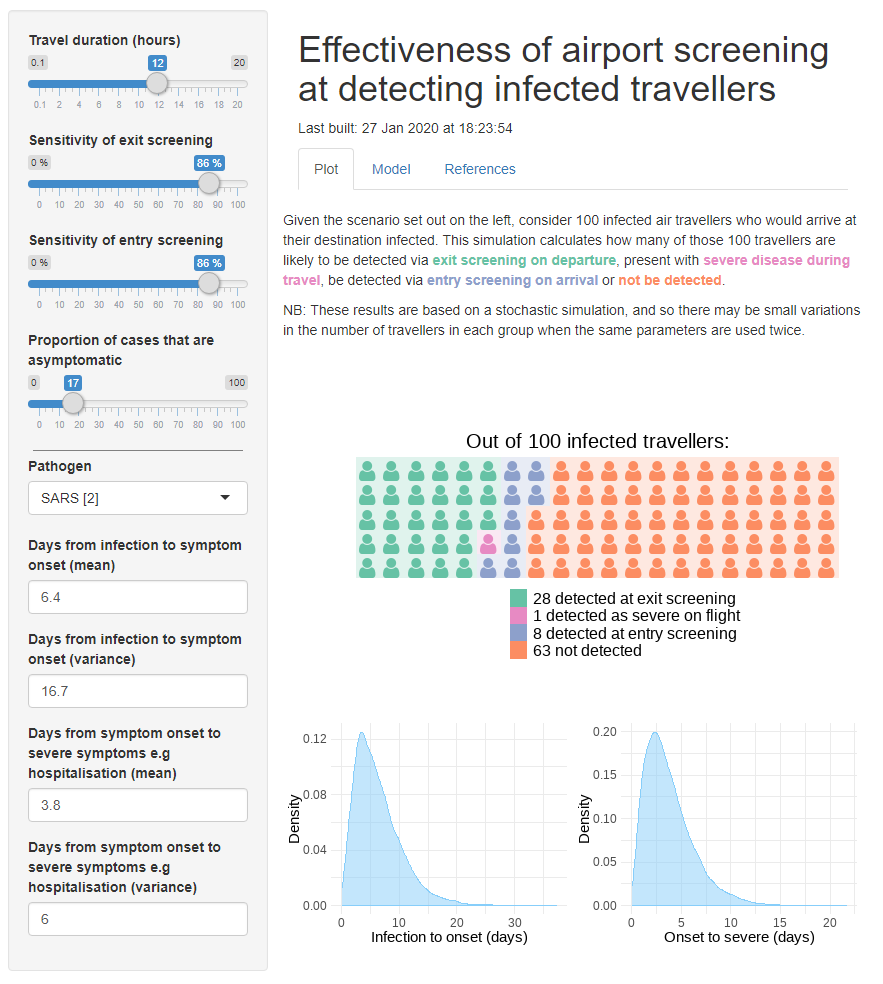
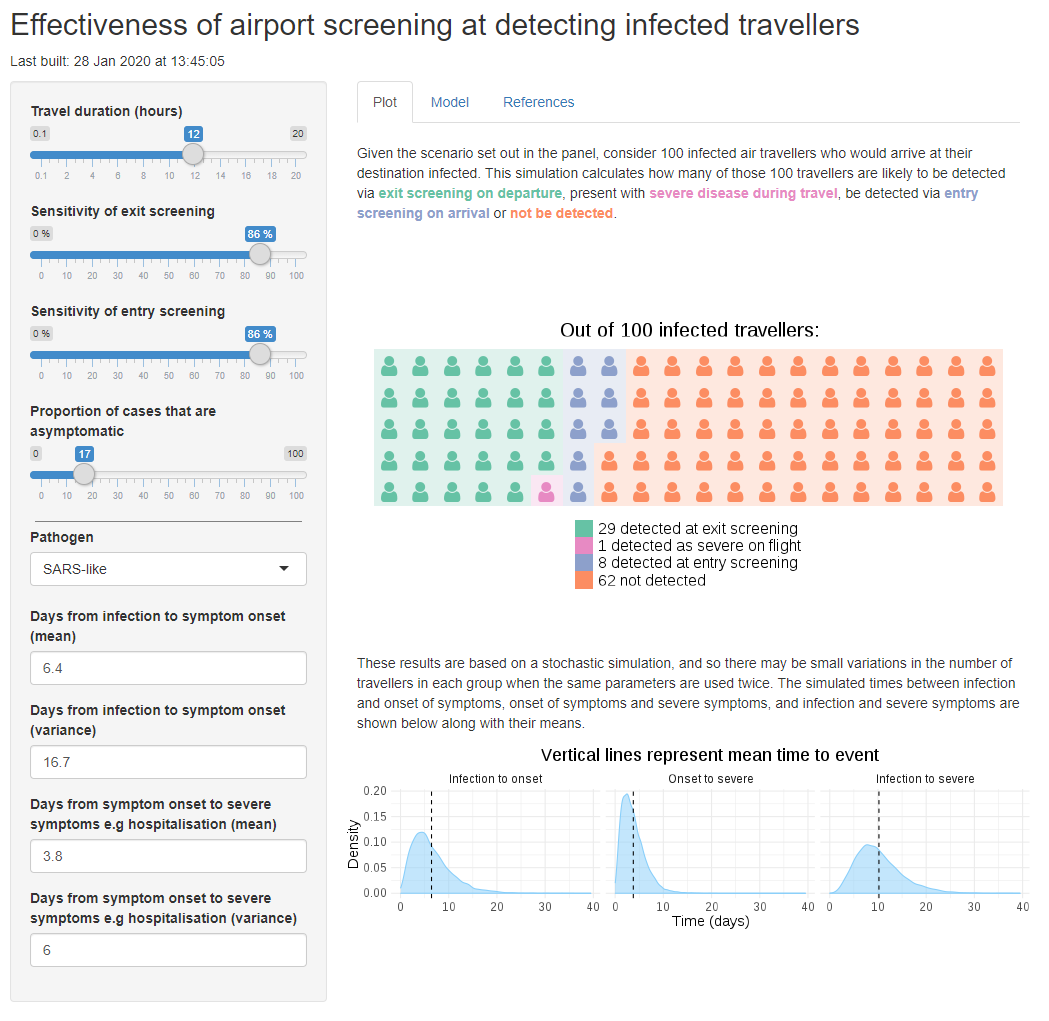
Version 2

diff --git a/waffle_description.md b/waffle_description.md
@@ -1,7 +1,5 @@
 <br/>
-Given the scenario set out on the left, consider 100 infected air travellers who would arrive at their destination infected. This simulation calculates how many of those 100 travellers are likely to be detected via <b><span style="color:#66C2A5"> exit screening on departure</span></b>, present with <b><span style="color:#E78AC3">severe disease during travel</span></b>, be detected via <b><span style="color:#8DA0CB">entry screening on arrival</span></b> or <b><span style="color:#FC8D62">not be detected</span></b>.
-
-NB: These results are based on a stochastic simulation, and so there may be small variations in the number of travellers in each group when the same parameters are used twice.
+Given the scenario set out in the panel, consider 100 infected air travellers who would arrive at their destination infected. This simulation calculates how many of those 100 travellers are likely to be detected via <b><span style="color:#66C2A5"> exit screening on departure</span></b>, present with <b><span style="color:#E78AC3">severe disease during travel</span></b>, be detected via <b><span style="color:#8DA0CB">entry screening on arrival</span></b> or <b><span style="color:#FC8D62">not be detected</span></b>.
 <br/><br/>
 
 

diff --git a/density_description.md b/density_description.md
@@ -1,0 +1,1 @@
+These results are based on a stochastic simulation, and so there may be small variations in the number of travellers in each group when the same parameters are used twice. The simulated times between infection and onset of symptoms, onset of symptoms and severe symptoms, and infection and severe symptoms are shown below along with their means.

diff --git a/date_stamp.md b/date_stamp.md
@@ -1,1 +1,1 @@
-Last built: 27 Jan 2020 at 18:23:54
+Last built: 28 Jan 2020 at 13:45:05
